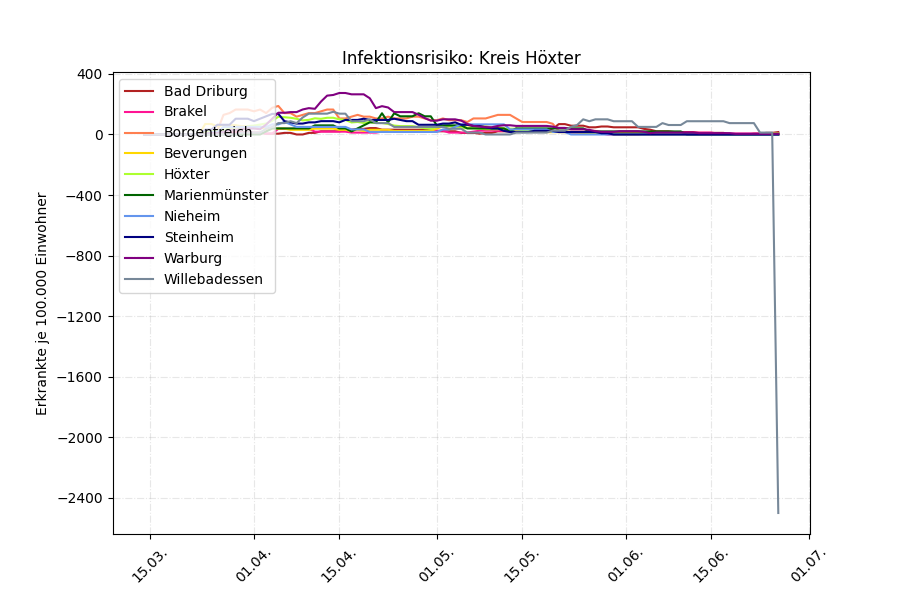
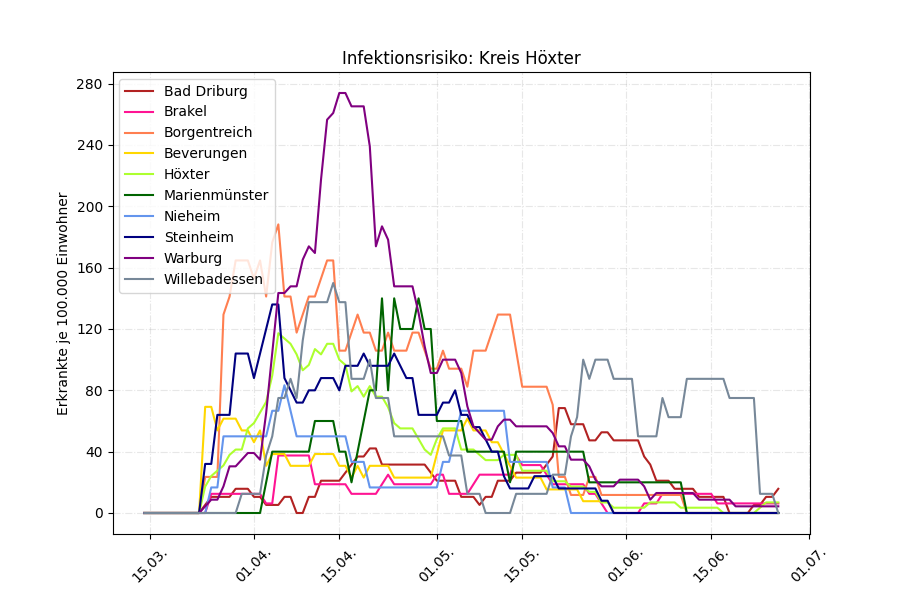
Stand 26. Juni, fix

diff --git a/communes/willebadessen.html b/communes/willebadessen.html
@@ -18,10 +18,10 @@
 <meta property="og:url" content="https://covidoplot.github.io/communes/willebadessen.html" />
 <meta property="og:site_name" content="Covid 19 im Kreis Höxter" />
 <meta property="og:type" content="article" />
-<meta property="article:published_time" content="2020-06-26T10:26:12+02:00" />
+<meta property="article:published_time" content="2020-06-26T10:49:23+02:00" />
 <meta name="google-site-verification" content="Jy9GjP1zJSZb24WTJkI5fc6zPYqWLYs0bo6EZXmsmKY" />
 <script type="application/ld+json">
-{"url":"https://covidoplot.github.io/communes/willebadessen.html","headline":"Willebadessen","dateModified":"2020-06-26T10:26:12+02:00","datePublished":"2020-06-26T10:26:12+02:00","mainEntityOfPage":{"@type":"WebPage","@id":"https://covidoplot.github.io/communes/willebadessen.html"},"author":{"@type":"Person","name":"Elmar Hinz"},"description":"Daten und Diagramme zur Coronavirus-Krankheit 2019 in Willebadessen","@type":"BlogPosting","@context":"https://schema.org"}</script>
+{"url":"https://covidoplot.github.io/communes/willebadessen.html","headline":"Willebadessen","dateModified":"2020-06-26T10:49:23+02:00","datePublished":"2020-06-26T10:49:23+02:00","mainEntityOfPage":{"@type":"WebPage","@id":"https://covidoplot.github.io/communes/willebadessen.html"},"author":{"@type":"Person","name":"Elmar Hinz"},"description":"Daten und Diagramme zur Coronavirus-Krankheit 2019 in Willebadessen","@type":"BlogPosting","@context":"https://schema.org"}</script>
 <!-- End Jekyll SEO tag -->
 
 </head>
@@ -109,12 +109,12 @@
         </thead>
         <tbody>
         <tr>
-            <td>-200
+            <td>0
                 
                 <small>(1)</small>
                 
             </td>
-            <td>230
+            <td>30
                 
                 <small>(29)</small>
                 
@@ -1064,8 +1064,8 @@
             
             <tr>
                 <td class="table-secondary">26. June</td>
-                <td>-200</td>
-                <td>230</td>
+                <td>0</td>
+                <td>30</td>
                 <td>2</td>
                 <td class="table-secondary">32</td>
             </tr>

diff --git a/communes/marienmuenster.html b/communes/marienmuenster.html
@@ -18,10 +18,10 @@
 <meta property="og:url" content="https://covidoplot.github.io/communes/marienmuenster.html" />
 <meta property="og:site_name" content="Covid 19 im Kreis Höxter" />
 <meta property="og:type" content="article" />
-<meta property="article:published_time" content="2020-06-26T10:26:12+02:00" />
+<meta property="article:published_time" content="2020-06-26T10:49:23+02:00" />
 <meta name="google-site-verification" content="Jy9GjP1zJSZb24WTJkI5fc6zPYqWLYs0bo6EZXmsmKY" />
 <script type="application/ld+json">
-{"url":"https://covidoplot.github.io/communes/marienmuenster.html","headline":"Marienmünster","dateModified":"2020-06-26T10:26:12+02:00","datePublished":"2020-06-26T10:26:12+02:00","mainEntityOfPage":{"@type":"WebPage","@id":"https://covidoplot.github.io/communes/marienmuenster.html"},"author":{"@type":"Person","name":"Elmar Hinz"},"description":"Daten und Diagramme zur Coronavirus-Krankheit 2019 in Marienmünster","@type":"BlogPosting","@context":"https://schema.org"}</script>
+{"url":"https://covidoplot.github.io/communes/marienmuenster.html","headline":"Marienmünster","dateModified":"2020-06-26T10:49:23+02:00","datePublished":"2020-06-26T10:49:23+02:00","mainEntityOfPage":{"@type":"WebPage","@id":"https://covidoplot.github.io/communes/marienmuenster.html"},"author":{"@type":"Person","name":"Elmar Hinz"},"description":"Daten und Diagramme zur Coronavirus-Krankheit 2019 in Marienmünster","@type":"BlogPosting","@context":"https://schema.org"}</script>
 <!-- End Jekyll SEO tag -->
 
 </head>

diff --git a/communes/borgentreich.html b/communes/borgentreich.html
@@ -18,10 +18,10 @@
 <meta property="og:url" content="https://covidoplot.github.io/communes/borgentreich.html" />
 <meta property="og:site_name" content="Covid 19 im Kreis Höxter" />
 <meta property="og:type" content="article" />
-<meta property="article:published_time" content="2020-06-26T10:26:12+02:00" />
+<meta property="article:published_time" content="2020-06-26T10:49:23+02:00" />
 <meta name="google-site-verification" content="Jy9GjP1zJSZb24WTJkI5fc6zPYqWLYs0bo6EZXmsmKY" />
 <script type="application/ld+json">
-{"url":"https://covidoplot.github.io/communes/borgentreich.html","headline":"Borgentreich","dateModified":"2020-06-26T10:26:12+02:00","datePublished":"2020-06-26T10:26:12+02:00","mainEntityOfPage":{"@type":"WebPage","@id":"https://covidoplot.github.io/communes/borgentreich.html"},"author":{"@type":"Person","name":"Elmar Hinz"},"description":"Daten und Diagramme zur Coronavirus-Krankheit 2019 in Borgentreich","@type":"BlogPosting","@context":"https://schema.org"}</script>
+{"url":"https://covidoplot.github.io/communes/borgentreich.html","headline":"Borgentreich","dateModified":"2020-06-26T10:49:23+02:00","datePublished":"2020-06-26T10:49:23+02:00","mainEntityOfPage":{"@type":"WebPage","@id":"https://covidoplot.github.io/communes/borgentreich.html"},"author":{"@type":"Person","name":"Elmar Hinz"},"description":"Daten und Diagramme zur Coronavirus-Krankheit 2019 in Borgentreich","@type":"BlogPosting","@context":"https://schema.org"}</script>
 <!-- End Jekyll SEO tag -->
 
 </head>

diff --git a/communes/bad-driburg.html b/communes/bad-driburg.html
@@ -18,10 +18,10 @@
 <meta property="og:url" content="https://covidoplot.github.io/communes/bad-driburg.html" />
 <meta property="og:site_name" content="Covid 19 im Kreis Höxter" />
 <meta property="og:type" content="article" />
-<meta property="article:published_time" content="2020-06-26T10:26:12+02:00" />
+<meta property="article:published_time" content="2020-06-26T10:49:23+02:00" />
 <meta name="google-site-verification" content="Jy9GjP1zJSZb24WTJkI5fc6zPYqWLYs0bo6EZXmsmKY" />
 <script type="application/ld+json">
-{"url":"https://covidoplot.github.io/communes/bad-driburg.html","headline":"Bad Driburg","dateModified":"2020-06-26T10:26:12+02:00","datePublished":"2020-06-26T10:26:12+02:00","mainEntityOfPage":{"@type":"WebPage","@id":"https://covidoplot.github.io/communes/bad-driburg.html"},"author":{"@type":"Person","name":"Elmar Hinz"},"description":"Daten und Diagramme zur Coronavirus-Krankheit 2019 in Bad Driburg","@type":"BlogPosting","@context":"https://schema.org"}</script>
+{"url":"https://covidoplot.github.io/communes/bad-driburg.html","headline":"Bad Driburg","dateModified":"2020-06-26T10:49:23+02:00","datePublished":"2020-06-26T10:49:23+02:00","mainEntityOfPage":{"@type":"WebPage","@id":"https://covidoplot.github.io/communes/bad-driburg.html"},"author":{"@type":"Person","name":"Elmar Hinz"},"description":"Daten und Diagramme zur Coronavirus-Krankheit 2019 in Bad Driburg","@type":"BlogPosting","@context":"https://schema.org"}</script>
 <!-- End Jekyll SEO tag -->
 
 </head>

diff --git a/communes/beverungen.html b/communes/beverungen.html
@@ -18,10 +18,10 @@
 <meta property="og:url" content="https://covidoplot.github.io/communes/beverungen.html" />
 <meta property="og:site_name" content="Covid 19 im Kreis Höxter" />
 <meta property="og:type" content="article" />
-<meta property="article:published_time" content="2020-06-26T10:26:12+02:00" />
+<meta property="article:published_time" content="2020-06-26T10:49:23+02:00" />
 <meta name="google-site-verification" content="Jy9GjP1zJSZb24WTJkI5fc6zPYqWLYs0bo6EZXmsmKY" />
 <script type="application/ld+json">
-{"url":"https://covidoplot.github.io/communes/beverungen.html","headline":"Beverungen","dateModified":"2020-06-26T10:26:12+02:00","datePublished":"2020-06-26T10:26:12+02:00","mainEntityOfPage":{"@type":"WebPage","@id":"https://covidoplot.github.io/communes/beverungen.html"},"author":{"@type":"Person","name":"Elmar Hinz"},"description":"Daten und Diagramme zur Coronavirus-Krankheit 2019 in Beverungen","@type":"BlogPosting","@context":"https://schema.org"}</script>
+{"url":"https://covidoplot.github.io/communes/beverungen.html","headline":"Beverungen","dateModified":"2020-06-26T10:49:23+02:00","datePublished":"2020-06-26T10:49:23+02:00","mainEntityOfPage":{"@type":"WebPage","@id":"https://covidoplot.github.io/communes/beverungen.html"},"author":{"@type":"Person","name":"Elmar Hinz"},"description":"Daten und Diagramme zur Coronavirus-Krankheit 2019 in Beverungen","@type":"BlogPosting","@context":"https://schema.org"}</script>
 <!-- End Jekyll SEO tag -->
 
 </head>

diff --git a/communes/steinheim.html b/communes/steinheim.html
@@ -18,10 +18,10 @@
 <meta property="og:url" content="https://covidoplot.github.io/communes/steinheim.html" />
 <meta property="og:site_name" content="Covid 19 im Kreis Höxter" />
 <meta property="og:type" content="article" />
-<meta property="article:published_time" content="2020-06-26T10:26:12+02:00" />
+<meta property="article:published_time" content="2020-06-26T10:49:23+02:00" />
 <meta name="google-site-verification" content="Jy9GjP1zJSZb24WTJkI5fc6zPYqWLYs0bo6EZXmsmKY" />
 <script type="application/ld+json">
-{"url":"https://covidoplot.github.io/communes/steinheim.html","headline":"Steinheim","dateModified":"2020-06-26T10:26:12+02:00","datePublished":"2020-06-26T10:26:12+02:00","mainEntityOfPage":{"@type":"WebPage","@id":"https://covidoplot.github.io/communes/steinheim.html"},"author":{"@type":"Person","name":"Elmar Hinz"},"description":"Daten und Diagramme zur Coronavirus-Krankheit 2019 in Steinheim","@type":"BlogPosting","@context":"https://schema.org"}</script>
+{"url":"https://covidoplot.github.io/communes/steinheim.html","headline":"Steinheim","dateModified":"2020-06-26T10:49:23+02:00","datePublished":"2020-06-26T10:49:23+02:00","mainEntityOfPage":{"@type":"WebPage","@id":"https://covidoplot.github.io/communes/steinheim.html"},"author":{"@type":"Person","name":"Elmar Hinz"},"description":"Daten und Diagramme zur Coronavirus-Krankheit 2019 in Steinheim","@type":"BlogPosting","@context":"https://schema.org"}</script>
 <!-- End Jekyll SEO tag -->
 
 </head>

diff --git a/communes/hoexter.html b/communes/hoexter.html
@@ -18,10 +18,10 @@
 <meta property="og:url" content="https://covidoplot.github.io/communes/hoexter.html" />
 <meta property="og:site_name" content="Covid 19 im Kreis Höxter" />
 <meta property="og:type" content="article" />
-<meta property="article:published_time" content="2020-06-26T10:26:12+02:00" />
+<meta property="article:published_time" content="2020-06-26T10:49:23+02:00" />
 <meta name="google-site-verification" content="Jy9GjP1zJSZb24WTJkI5fc6zPYqWLYs0bo6EZXmsmKY" />
 <script type="application/ld+json">
-{"url":"https://covidoplot.github.io/communes/hoexter.html","headline":"Höxter","dateModified":"2020-06-26T10:26:12+02:00","datePublished":"2020-06-26T10:26:12+02:00","mainEntityOfPage":{"@type":"WebPage","@id":"https://covidoplot.github.io/communes/hoexter.html"},"author":{"@type":"Person","name":"Elmar Hinz"},"description":"Daten und Diagramme zur Coronavirus-Krankheit 2019 in Höxter","@type":"BlogPosting","@context":"https://schema.org"}</script>
+{"url":"https://covidoplot.github.io/communes/hoexter.html","headline":"Höxter","dateModified":"2020-06-26T10:49:23+02:00","datePublished":"2020-06-26T10:49:23+02:00","mainEntityOfPage":{"@type":"WebPage","@id":"https://covidoplot.github.io/communes/hoexter.html"},"author":{"@type":"Person","name":"Elmar Hinz"},"description":"Daten und Diagramme zur Coronavirus-Krankheit 2019 in Höxter","@type":"BlogPosting","@context":"https://schema.org"}</script>
 <!-- End Jekyll SEO tag -->
 
 </head>

diff --git a/communes/nieheim.html b/communes/nieheim.html
@@ -18,10 +18,10 @@
 <meta property="og:url" content="https://covidoplot.github.io/communes/nieheim.html" />
 <meta property="og:site_name" content="Covid 19 im Kreis Höxter" />
 <meta property="og:type" content="article" />
-<meta property="article:published_time" content="2020-06-26T10:26:12+02:00" />
+<meta property="article:published_time" content="2020-06-26T10:49:23+02:00" />
 <meta name="google-site-verification" content="Jy9GjP1zJSZb24WTJkI5fc6zPYqWLYs0bo6EZXmsmKY" />
 <script type="application/ld+json">
-{"url":"https://covidoplot.github.io/communes/nieheim.html","headline":"Nieheim","dateModified":"2020-06-26T10:26:12+02:00","datePublished":"2020-06-26T10:26:12+02:00","mainEntityOfPage":{"@type":"WebPage","@id":"https://covidoplot.github.io/communes/nieheim.html"},"author":{"@type":"Person","name":"Elmar Hinz"},"description":"Daten und Diagramme zur Coronavirus-Krankheit 2019 in Nieheim","@type":"BlogPosting","@context":"https://schema.org"}</script>
+{"url":"https://covidoplot.github.io/communes/nieheim.html","headline":"Nieheim","dateModified":"2020-06-26T10:49:23+02:00","datePublished":"2020-06-26T10:49:23+02:00","mainEntityOfPage":{"@type":"WebPage","@id":"https://covidoplot.github.io/communes/nieheim.html"},"author":{"@type":"Person","name":"Elmar Hinz"},"description":"Daten und Diagramme zur Coronavirus-Krankheit 2019 in Nieheim","@type":"BlogPosting","@context":"https://schema.org"}</script>
 <!-- End Jekyll SEO tag -->
 
 </head>

diff --git a/communes/warburg.html b/communes/warburg.html
@@ -18,10 +18,10 @@
 <meta property="og:url" content="https://covidoplot.github.io/communes/warburg.html" />
 <meta property="og:site_name" content="Covid 19 im Kreis Höxter" />
 <meta property="og:type" content="article" />
-<meta property="article:published_time" content="2020-06-26T10:26:12+02:00" />
+<meta property="article:published_time" content="2020-06-26T10:49:23+02:00" />
 <meta name="google-site-verification" content="Jy9GjP1zJSZb24WTJkI5fc6zPYqWLYs0bo6EZXmsmKY" />
 <script type="application/ld+json">
-{"url":"https://covidoplot.github.io/communes/warburg.html","headline":"Warburg","dateModified":"2020-06-26T10:26:12+02:00","datePublished":"2020-06-26T10:26:12+02:00","mainEntityOfPage":{"@type":"WebPage","@id":"https://covidoplot.github.io/communes/warburg.html"},"author":{"@type":"Person","name":"Elmar Hinz"},"description":"Daten und Diagramme zur Coronavirus-Krankheit 2019 in Warburg","@type":"BlogPosting","@context":"https://schema.org"}</script>
+{"url":"https://covidoplot.github.io/communes/warburg.html","headline":"Warburg","dateModified":"2020-06-26T10:49:23+02:00","datePublished":"2020-06-26T10:49:23+02:00","mainEntityOfPage":{"@type":"WebPage","@id":"https://covidoplot.github.io/communes/warburg.html"},"author":{"@type":"Person","name":"Elmar Hinz"},"description":"Daten und Diagramme zur Coronavirus-Krankheit 2019 in Warburg","@type":"BlogPosting","@context":"https://schema.org"}</script>
 <!-- End Jekyll SEO tag -->
 
 </head>

diff --git a/communes/brakel.html b/communes/brakel.html
@@ -18,10 +18,10 @@
 <meta property="og:url" content="https://covidoplot.github.io/communes/brakel.html" />
 <meta property="og:site_name" content="Covid 19 im Kreis Höxter" />
 <meta property="og:type" content="article" />
-<meta property="article:published_time" content="2020-06-26T10:26:12+02:00" />
+<meta property="article:published_time" content="2020-06-26T10:49:23+02:00" />
 <meta name="google-site-verification" content="Jy9GjP1zJSZb24WTJkI5fc6zPYqWLYs0bo6EZXmsmKY" />
 <script type="application/ld+json">
-{"url":"https://covidoplot.github.io/communes/brakel.html","headline":"Brakel","dateModified":"2020-06-26T10:26:12+02:00","datePublished":"2020-06-26T10:26:12+02:00","mainEntityOfPage":{"@type":"WebPage","@id":"https://covidoplot.github.io/communes/brakel.html"},"author":{"@type":"Person","name":"Elmar Hinz"},"description":"Daten und Diagramme zur Coronavirus-Krankheit 2019 in Brakel","@type":"BlogPosting","@context":"https://schema.org"}</script>
+{"url":"https://covidoplot.github.io/communes/brakel.html","headline":"Brakel","dateModified":"2020-06-26T10:49:23+02:00","datePublished":"2020-06-26T10:49:23+02:00","mainEntityOfPage":{"@type":"WebPage","@id":"https://covidoplot.github.io/communes/brakel.html"},"author":{"@type":"Person","name":"Elmar Hinz"},"description":"Daten und Diagramme zur Coronavirus-Krankheit 2019 in Brakel","@type":"BlogPosting","@context":"https://schema.org"}</script>
 <!-- End Jekyll SEO tag -->
 
 </head>

diff --git a/kreis-hoexter.html b/kreis-hoexter.html
@@ -303,12 +303,12 @@
         
         <tr>
             <th scope="row" class="table-primary">Willebadessen</th>
-            <td>-200
+            <td>0
                 
                 <small>(1)</small>
                 
             </td>
-            <td>230
+            <td>30
                 
                 <small>(29)</small>
                 
